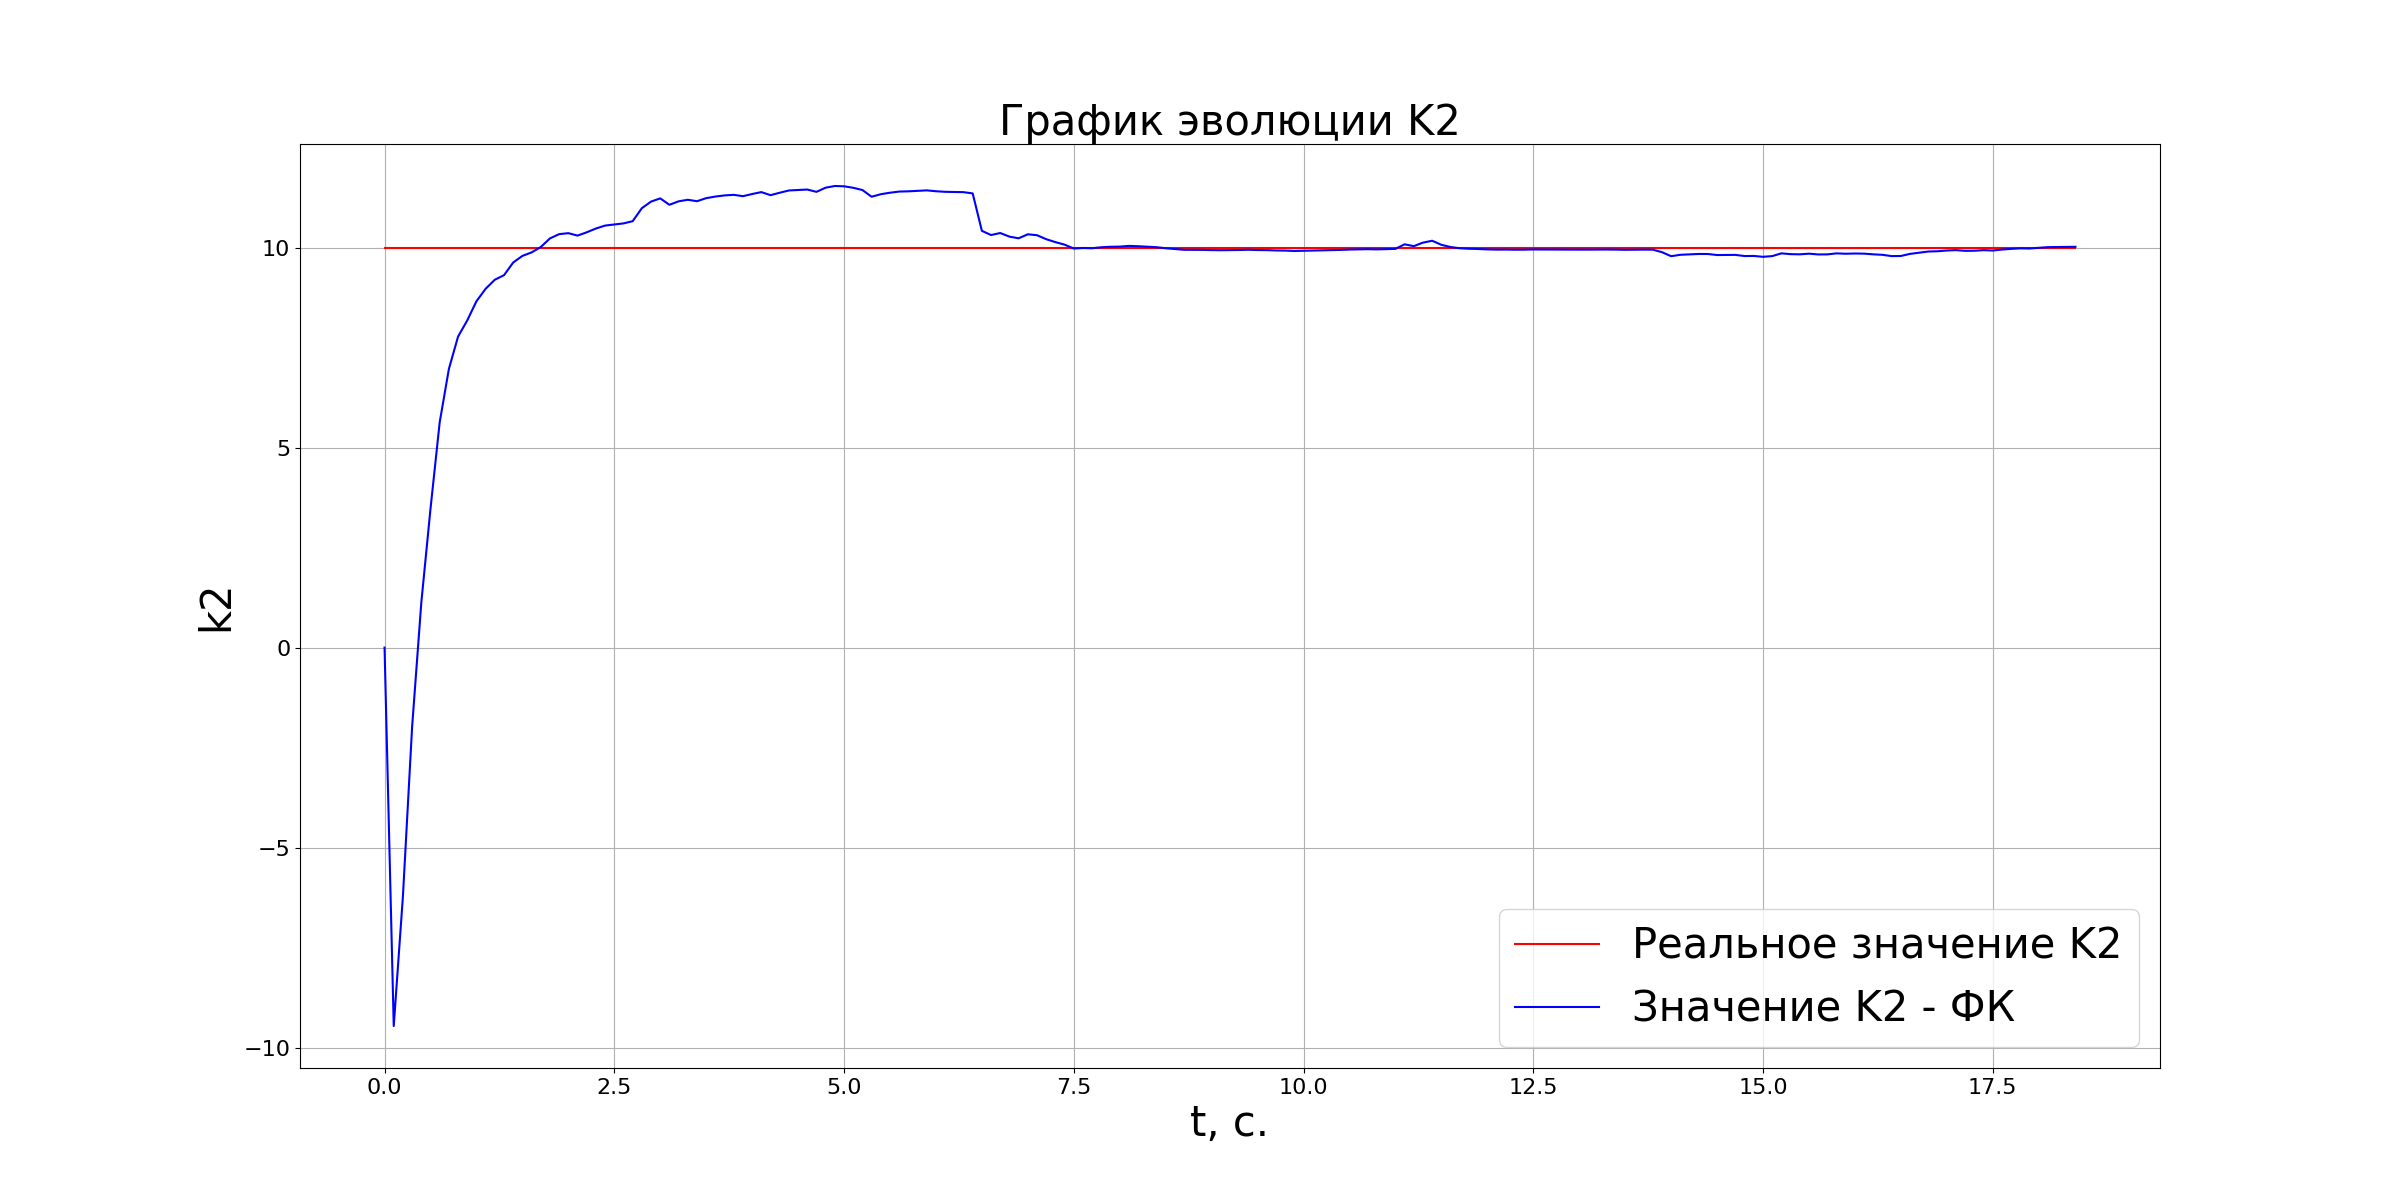
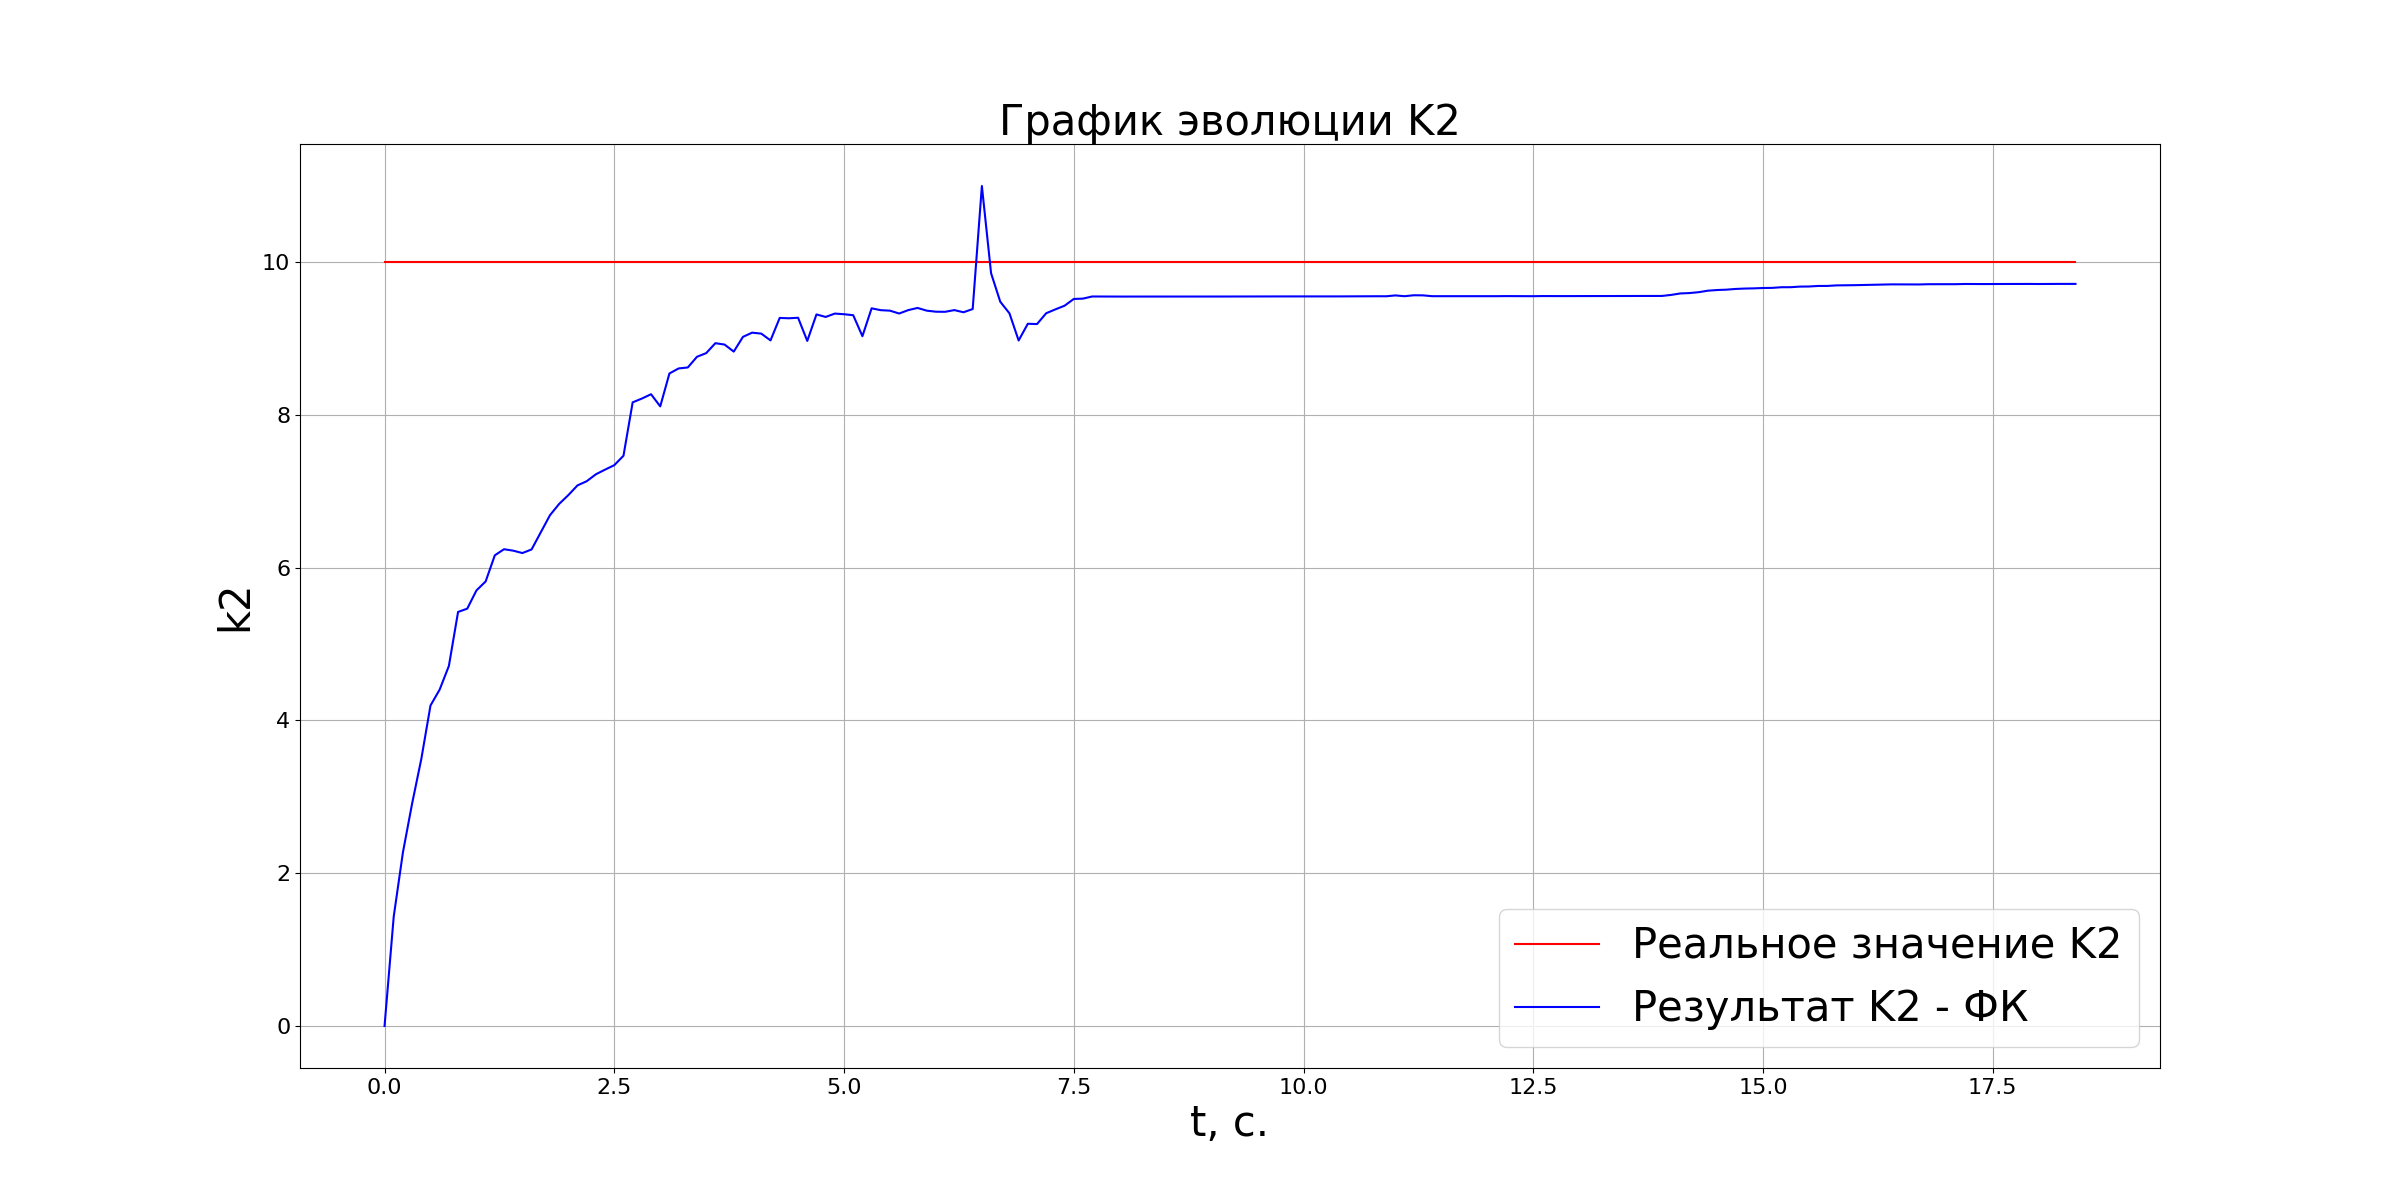
Update

diff --git a/Model.py b/Model.py
@@ -34,10 +34,10 @@ class Model:
         self.dw=90.*np.pi/180.
 
         #под задачу фильтрации
-        self.__p_p=np.zeros((7,7))
-        self.__p_c=np.zeros((7,7))
-        self.__x_c=np.zeros(7)
-        self.__x_p=np.zeros(7)
+        self.__p_p=np.zeros((5,5))
+        self.__p_c=np.zeros((5,5))
+        self.__x_c=np.zeros(5)
+        self.__x_p=np.zeros(5)
         self.__cT=0.
 
         #ошибки измерений
@@ -56,18 +56,18 @@ class Model:
         # ])
 
         #матрица наблюдения
-        self.__H=np.asarray([
-            [1.,0,0,0,0,0,0],
-            [0,1.,0,0,0,0,0],
-            [0,0,1.,0,0,0,0],
-        ])
-        self.__H2=np.asarray([
-            [1.,0,0,0,0,0,0],
-            [0,1.,0,0,0,0,0],
-            [0,0,1.,0,0,0,0],
-            [0,0,0.,1,0,0,0],
-            [0,0,0.,0,1,0,0],
-        ])
+        # self.__H=np.asarray([
+        #     [1.,0,0,0,0,0,0],
+        #     [0,1.,0,0,0,0,0],
+        #     [0,0,1.,0,0,0,0],
+        # ])
+        # self.__H2=np.asarray([
+        #     [1.,0,0,0,0,0,0],
+        #     [0,1.,0,0,0,0,0],
+        #     [0,0,1.,0,0,0,0],
+        #     [0,0,0.,1,0,0,0],
+        #     [0,0,0.,0,1,0,0],
+        # ])
 
         self.Y=[]
         self.Result=[]
@@ -103,7 +103,7 @@ class Model:
         if (d1>=30) and (d3>=30) and (d2>=30):
             alpha=atan2((position[1]-__y),(position[0]-__x))
             dwz1=alpha-__wz
-            if dwz1>self.dw*dt:
+            if dwz1>=self.dw*dt:
                 dwz=self.dw*dt
             if dwz1<self.dw*dt:
                 dwz=-self.dw*dt
@@ -335,41 +335,31 @@ class Model:
     def Prediction(self,U,dt,t,metka):
 
         F=np.asarray([
-                [1.,0.,0, 0., 0.,0.,0],
-                [0.,1.,0, 0.,0.,0.,0],
-                [0.,0.,1.,0.,0.,0.,0],
+                [1.,0.,0, 0.,0.],
+                [0.,1.,0, 0.,0.],
+                [0.,0.,1.,0.,0.],
             
-                [1.,0.,0.,0.,0., -t, 0.],
-                [0.,1.,0.,0.,0.,0., -t],
+                [0.,0.,0.,1.,0.],
+                [0.,0.,0.,0.,1.],
             
-                [0.5/t,0,0,-0.5/t,0., 0.5, 0],
-                [0.,0.5/t,0.,0,-0.5/t, 0., 0.5],
                 ],dtype=float)
 
     
         De=np.asarray([
-            [(15*dt)**2,0,0,0,0,0,0],
-            [0,(15*dt)**2,0,0,0,0,0],
-            [0,0,(0.5*np.pi*dt)**2,0,0,0,0],
-            [0,0,0,0,0,0,0],
-            [0,0,0,0,0,0,0],
-            [0,0,0,0,0,0,0.],
-            [0,0,0,0,0,0,0.],
+            [(15*dt)**2,0,0,0,0],
+            [0,(15*dt)**2,0,0,0],
+            [0,0,(0.5*np.pi*dt)**2,0,0],
+            [0,0,0,0,0],
+            [0,0,0,0,0],
         ])
 
  
         self.__x_p[0]=self.__x_c[0]+U[0]*cos(self.__x_c[2])*dt
         self.__x_p[1]=self.__x_c[1]+U[0]*sin(self.__x_c[2])*dt
         self.__x_p[2]=self.__x_c[2]+U[1]
-
-        self.__x_p[3]=self.__x_c[0]-self.__x_c[5]*t+U[0]*cos(self.__x_c[2])*dt
-        self.__x_p[4]=self.__x_c[1]-self.__x_c[6]*t+U[0]*sin(self.__x_c[2])*dt
-
-        # self.__x_p[5]=self.__x_c[5]+U[0]*cos(self.__x_c[2])*dt
-        # self.__x_p[6]=self.__x_c[6]+U[0]*sin(self.__x_c[2])*dt
        
-        self.__x_p[5]=(self.__x_c[5]+(self.__x_c[0]-self.__x_c[3])/t)/2.
-        self.__x_p[6]=(self.__x_c[6]+(self.__x_c[1]-self.__x_c[4])/t)/2.
+        self.__x_p[3]=self.__x_c[3]
+        self.__x_p[4]=self.__x_c[4]
 
 
         self.__p_p=np.dot(np.dot(F,self.__p_c),np.transpose(F))+De
@@ -377,19 +367,24 @@ class Model:
 
     def Correction(self,Y,metka,D,t):
         self.__H=np.asarray([
-            [0.,0,0,1,0,t,0],
-            [0,0.,0,0,1,0,t],
-            [0,0,1.,0,0,0,0],
+            [1.,0,0,t,0],
+            [0,1.,0,0,t],
+            [0,0,1.,0,0],
         ])
         self.__H2=np.asarray([
-            [0.,0,0,1,0,t,0],
-            [0,0.,0,0,1,0,t],
-            [0,0,1.,0,0,0,0],
-            [0,0,0.,1,0,0,0],
-            [0,0,0.,0,1,0,0],
+            [1.,0,0,t,0],
+            [0,1.,0,0,t],
+            [0,0,1.,0,0],
+            [1,0,0.,0,0],
+            [0,1,0.,0,0],
         ])
 
         if metka=="bins":
+            self.__Dn=np.asarray([
+            [0.01,0,0.],
+            [0,0.01,0.],
+            [0,0,0.0049],
+            ])
             __H=self.__H
             invDe=LA.inv(self.__Dn)
             H_t=np.transpose(self.__H)
@@ -399,7 +394,7 @@ class Model:
             [0,0.01,0,0,0],
             [0,0,0.0049,0,0],
             [0,0,0.,D,0],
-            [0.,0.,0.,0.,D]
+            [0.,0,0.,0.,D]
             ])
             __H=self.__H2
             invDe=LA.inv(self.__Dn2)
@@ -424,12 +419,12 @@ class Model:
         self.__x_p[0]=self.__initX
         self.__x_p[1]=self.__initY
         self.__x_p[2]=self.__wz
-        self.__x_p[3]=self.__x_p[0]
-        self.__x_p[4]=self.__x_p[1]
+        self.__x_p[3]=0
+        self.__x_p[4]=0
         # self.__x_p[5]=self.__x_p[0]
         # self.__x_p[6]=self.__x_p[1]
-        self.__x_p[5]=0
-        self.__x_p[6]=0
+        # self.__x_p[5]=0
+        # self.__x_p[6]=0
      
 
         self.__p_p[0][0]=50
@@ -439,8 +434,8 @@ class Model:
         self.__p_p[4][4]=50
         # self.__p_p[5][5]=5
         # self.__p_p[6][6]=5
-        self.__p_p[5][5]=50
-        self.__p_p[6][6]=50
+        # self.__p_p[5][5]=50
+        # self.__p_p[6][6]=50
    
         
         index=0
@@ -475,8 +470,8 @@ class Model:
                     D_=min(D)
 
             self.Correction(y,Data[1],D_,Data[0])
-            self.Result.append([Data[0],self.__x_c[0],self.__x_c[1],self.__x_c[2],self.__x_c[3],self.__x_c[4],self.__x_c[5],self.__x_c[6]])
-            self.P.append([Data[0],self.__p_c[0][0],self.__p_c[1][1],self.__p_c[2][2],self.__p_c[3][3],self.__p_c[4][4],self.__p_c[5][5],self.__p_c[6][6]])         
+            self.Result.append([Data[0],self.__x_c[0],self.__x_c[1],self.__x_c[2],self.__x_c[3],self.__x_c[4]])
+            self.P.append([Data[0],self.__p_c[0][0],self.__p_c[1][1],self.__p_c[2][2],self.__p_c[3][3],self.__p_c[4][4]])         
 
             c,dwz,newDt=self.Control(dt,otherY[0],otherY[1],otherY[2],self.__x_c[3],self.__x_c[4],self.__x_c[2])
             U=np.asarray([c,dwz])

diff --git a/Main.py b/Main.py
@@ -123,14 +123,14 @@ kyfk=[]
 qrxfk=[]
 qryfk=[]
 for j in model.Result:
-    xfk.append(j[1])
-    yfk.append(j[2])
-    rxfk.append(j[4])
-    ryfk.append(j[5])
+    rxfk.append(j[1])
+    ryfk.append(j[2])
+    # rxfk.append(j[4])
+    # ryfk.append(j[5])
     # qrxfk.append(j[6])
     # qryfk.append(j[7])
-    kxfk.append(j[6])
-    kyfk.append(j[7])
+    kxfk.append(j[4])
+    kyfk.append(j[5])
 
 p_x=[]
 p_y=[]
@@ -142,15 +142,15 @@ p_ky=[]
 p_qrx=[]
 p_qry=[]
 for p in model.P:
-    p_x.append(p[1])
-    p_y.append(p[2])
+    p_rx.append(p[1])
+    p_ry.append(p[2])
     p_a.append(p[3])
-    p_rx.append(p[4])   
-    p_ry.append(p[5])
+    p_kx.append(p[4])   
+    p_ky.append(p[5])
     # p_qrx.append(p[6])
     # p_qry.append(p[7])
-    p_kx.append(p[6])   
-    p_ky.append(p[7])    
+    # p_kx.append(p[6])   
+    # p_ky.append(p[7])    
 
 plt.figure(figsize=(24,12))
 plt.rc('axes', labelsize=30)
@@ -186,35 +186,35 @@ plt.savefig('Траектория движения X')
 
 
 
-plt.figure(figsize=(24,12))
-plt.rc('axes', labelsize=30)
-plt.rc('axes',titlesize=30)
-plt.rc('legend', fontsize=30)
-plt.tick_params(axis='both', which='major', labelsize=16)
-plt.title("Корелляционная трубка для компоненты X") # заголовок
-plt.xlabel("t, с.") # ось абсцисс
-plt.ylabel("x, см.") # ось ординат
-plt.grid()      # включение отображение сетки
-plt.plot(t, np.asarray(x)-np.asarray(xfk),'r',label="Ошибка")  # построение графика
-plt.plot(t, np.sqrt(p_x)*3,'b',label="Трубка сверху")  # построение графика
-plt.plot(t, -np.sqrt(np.asarray(p_x))*3,'b',label="Трубка снизу")  # построение графика
-plt.legend(loc=0)
-plt.savefig('Корелляционная трубка X')
+# plt.figure(figsize=(24,12))
+# plt.rc('axes', labelsize=30)
+# plt.rc('axes',titlesize=30)
+# plt.rc('legend', fontsize=30)
+# plt.tick_params(axis='both', which='major', labelsize=16)
+# plt.title("Корелляционная трубка для компоненты X") # заголовок
+# plt.xlabel("t, с.") # ось абсцисс
+# plt.ylabel("x, см.") # ось ординат
+# plt.grid()      # включение отображение сетки
+# plt.plot(t, np.asarray(x)-np.asarray(xfk),'r',label="Ошибка")  # построение графика
+# plt.plot(t, np.sqrt(p_x)*3,'b',label="Трубка сверху")  # построение графика
+# plt.plot(t, -np.sqrt(np.asarray(p_x))*3,'b',label="Трубка снизу")  # построение графика
+# plt.legend(loc=0)
+# plt.savefig('Корелляционная трубка X')
 
-plt.figure(figsize=(24,12))
-plt.rc('axes', labelsize=30)
-plt.rc('axes',titlesize=30)
-plt.rc('legend', fontsize=30)
-plt.tick_params(axis='both', which='major', labelsize=16)
-plt.title("Корелляционная трубка для компоненты Y") # заголовок
-plt.xlabel("t, с.") # ось абсцисс
-plt.ylabel("y, см.") # ось ординат
-plt.grid()      # включение отображение сетки
-plt.plot(t, np.asarray(y)-np.asarray(yfk),'r',label="Ошибка")  # построение графика
-plt.plot(t, np.sqrt(p_y)*3,'b',label="Трубка сверху")  # построение графика
-plt.plot(t, -np.sqrt(np.asarray(p_y))*3,'b',label="Трубка снизу")  # построение графика
-plt.legend(loc=0)
-plt.savefig('Корелляционная трубка Y')
+# plt.figure(figsize=(24,12))
+# plt.rc('axes', labelsize=30)
+# plt.rc('axes',titlesize=30)
+# plt.rc('legend', fontsize=30)
+# plt.tick_params(axis='both', which='major', labelsize=16)
+# plt.title("Корелляционная трубка для компоненты Y") # заголовок
+# plt.xlabel("t, с.") # ось абсцисс
+# plt.ylabel("y, см.") # ось ординат
+# plt.grid()      # включение отображение сетки
+# plt.plot(t, np.asarray(y)-np.asarray(yfk),'r',label="Ошибка")  # построение графика
+# plt.plot(t, np.sqrt(p_y)*3,'b',label="Трубка сверху")  # построение графика
+# plt.plot(t, -np.sqrt(np.asarray(p_y))*3,'b',label="Трубка снизу")  # построение графика
+# plt.legend(loc=0)
+# plt.savefig('Корелляционная трубка Y')
 
 
 plt.figure(figsize=(24,12))
